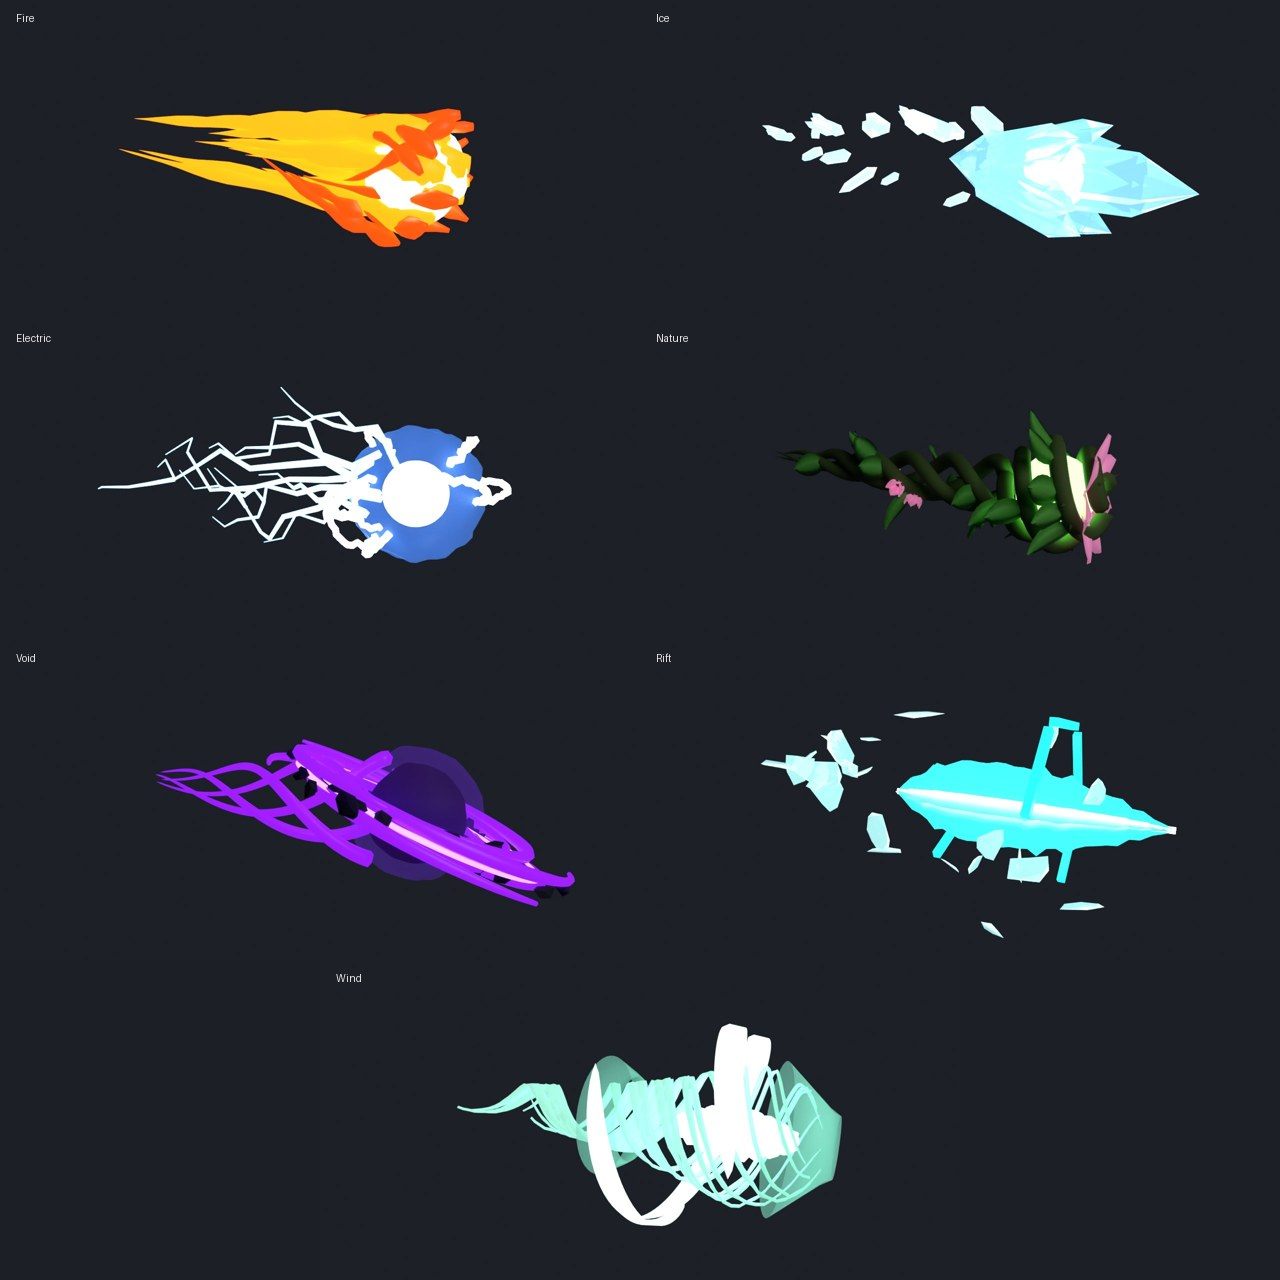
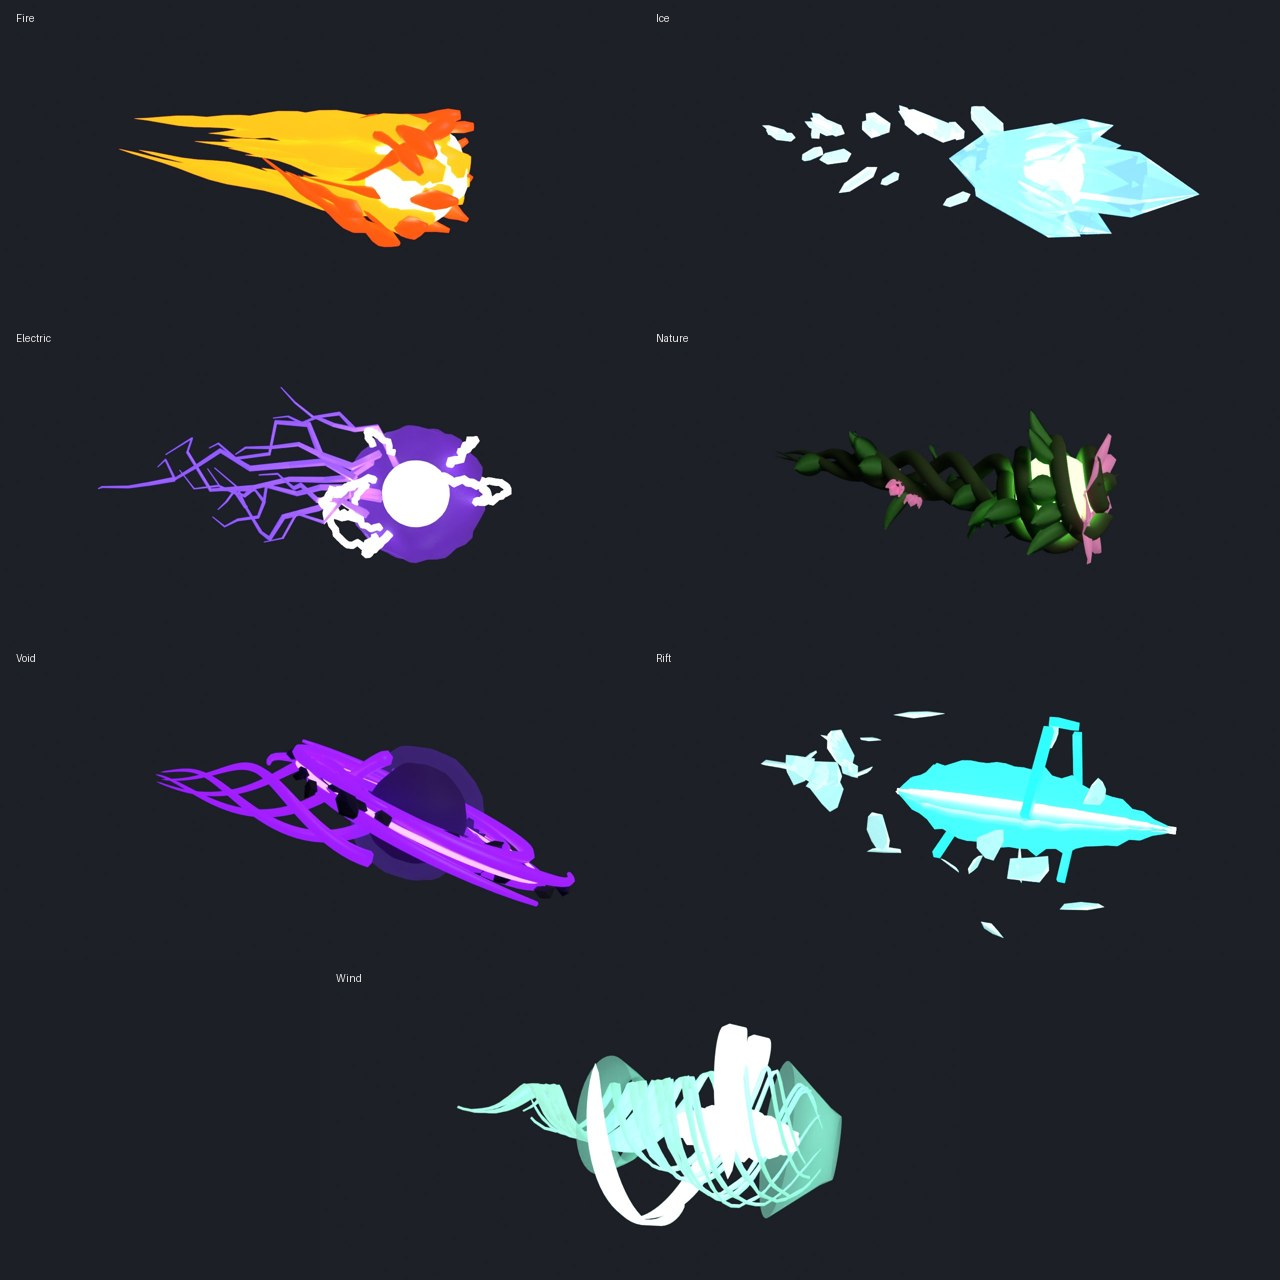
Make Electric purple instead of blue
The bolt becomes white-hot lilac, the branches violet and the plasma
sheath deep purple, in both the beam and the blast, which share the
Electric style in ElementBeams.lua. Geometry is unchanged.

Claude-Session: https://claude.ai/code/session_013uHW6RqHYn7kEkLfem6E9D

Changed region(s): [[0.125, 0.3125, 0.375, 0.4375], [0.0938, 0.375, 0.125, 0.4062]]

diff --git a/tools/build_element_blasts.py b/tools/build_element_blasts.py
@@ -135,11 +135,11 @@ def blast_electric(col):
 
     bm = bmesh.new()
     blob(bm, Vector(), 0.5)
-    finish(bm, "Core", col, material("ElecBolt", rgb(230, 250, 255), 8))
+    finish(bm, "Core", col, material("ElecBolt", rgb(245, 230, 255), 8))
 
     bm = bmesh.new()
     blob(bm, Vector(), 1.0, lambda d: 1 + 0.06 * math.sin(d.x * 9) * math.sin(d.y * 9) * math.sin(d.z * 9), segments=32, rings=20)
-    finish(bm, "Sheath", col, material("ElecSheath", rgb(90, 150, 255), 0.6, alpha=0.15))
+    finish(bm, "Sheath", col, material("ElecSheath", rgb(140, 60, 235), 0.6, alpha=0.15))
 
     bm = bmesh.new()
     for _ in range(9):  # arcs leaping between two points on the shell
@@ -156,7 +156,7 @@ def blast_electric(col):
             pts += jagged(p, q, 1, 0.35, rng)[:-1]
         pts.append(curve[-1])
         tube(bm, pts, [0.055] * len(pts), sides=5)
-    finish(bm, "Bolt", col, material("ElecBolt", rgb(230, 250, 255), 8), smooth=False)
+    finish(bm, "Bolt", col, material("ElecBolt", rgb(245, 230, 255), 8), smooth=False)
 
     bm = bmesh.new()
     for _ in range(7):
@@ -168,7 +168,7 @@ def blast_electric(col):
         end2 = fork + Vector((rng.uniform(-0.8, 0.8), -rng.uniform(0.6, 1.5), rng.uniform(-0.8, 0.8)))
         pts2 = jagged(fork, end2, 2, 0.3, rng)
         tube(bm, pts2, [0.035 * (1 - i / (len(pts2) - 1)) + 0.008 for i in range(len(pts2))], sides=4)
-    finish(bm, "Branches", col, material("ElecBranch", rgb(120, 190, 255), 5), smooth=False)
+    finish(bm, "Branches", col, material("ElecBranch", rgb(130, 80, 255), 1.2), smooth=False)
 
 
 def blast_nature(col):

diff --git a/tools/build_element_beams.py b/tools/build_element_beams.py
@@ -307,7 +307,7 @@ def build_electric(col):
         pts = jagged(axis_point(0), axis_point(LENGTH), 6, 0.035, random.Random(33 + seed))
         mains.append(pts)
         tube(bm, pts, [radius] * len(pts), sides=6)
-    finish(bm, "Bolt", col, material("ElecBolt", rgb(230, 250, 255), 8), smooth=False)
+    finish(bm, "Bolt", col, material("ElecBolt", rgb(245, 230, 255), 8), smooth=False)
 
     bm = bmesh.new()
     for _ in range(14):
@@ -321,14 +321,14 @@ def build_electric(col):
         end2 = fork + (d + Vector((rng.uniform(-1, 1), 0.3, rng.uniform(-1, 1)))).normalized() * rng.uniform(0.8, 1.8)
         pts2 = jagged(fork, end2, 2, 0.3, rng)
         tube(bm, pts2, [0.04 * (1 - i / (len(pts2) - 1)) + 0.008 for i in range(len(pts2))], sides=4)
-    finish(bm, "Branches", col, material("ElecBranch", rgb(120, 190, 255), 5), smooth=False)
+    finish(bm, "Branches", col, material("ElecBranch", rgb(130, 80, 255), 1.2), smooth=False)
 
     bm = bmesh.new()
     steps = 120
     pts = [axis_point(LENGTH * i / steps) for i in range(steps + 1)]
     rads = [0.75 + 0.2 * math.sin(i / steps * 2 * math.pi * 10) ** 2 for i in range(steps + 1)]
     tube(bm, pts, rads, sides=16)
-    finish(bm, "Sheath", col, material("ElecSheath", rgb(90, 150, 255), 0.6, alpha=0.15))
+    finish(bm, "Sheath", col, material("ElecSheath", rgb(140, 60, 235), 0.6, alpha=0.15))
 
 
 def build_nature(col):

diff --git a/ElementBeams/README.md b/ElementBeams/README.md
@@ -8,7 +8,7 @@ One Blender-made 3D beam per Eternium element, plus a module that drops them int
 |---|---|---|
 | **Fire** | No solid tube: a white-hot core wrapped in five twisting flame tongues, with flame wisps streaming backwards | Core, Flames, Wisps |
 | **Ice** | A crystalline spear of overlapping hexagonal crystals, with shards jutting forward | Core, Crystal, Shards |
-| **Electric** | A thick jagged main bolt with a thinner one twisting round it, forking branches and a pulsing plasma sheath | Bolt, Branches, Sheath |
+| **Electric** | A thick white-hot jagged main bolt with a thinner one twisting round it, violet forking branches and a pulsing purple plasma sheath | Bolt, Branches, Sheath |
 | **Nature** | Three thorned vines braiding around a living green core, with leaves, curling tendrils and blossoms | Core, Vines, Leaves, Blossoms |
 | **Void** | A light-eating black core inside a violet event horizon, tendrils spiralling inward, orbit rings and debris | Core, Horizon, Tendrils, Rings, Debris |
 | **Rift** | A faceted, star-shaped crystal fracture with a glowing fault line through it, caged by angular cyan crack lines, with solid glass shards and cracked hexagonal gates | Core, Tear, EdgeMagenta, EdgeCyan, Fragments, Gates |
